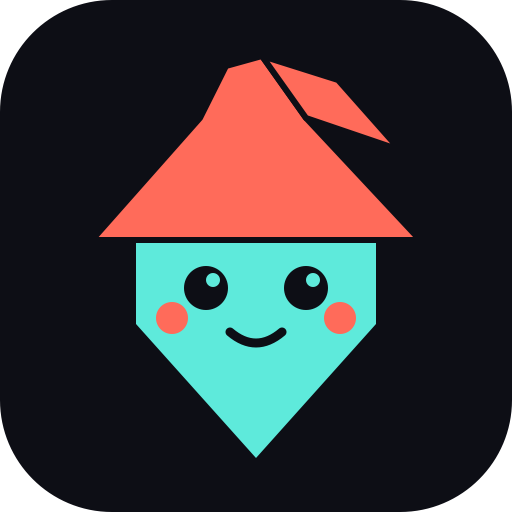
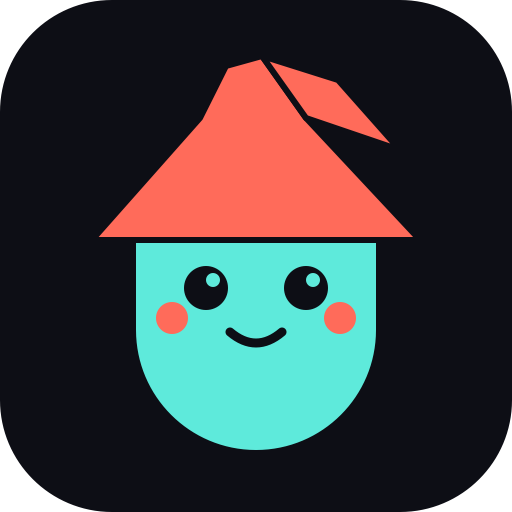
Логотип: круглое лицо вместо клиновидной бороды во всех вариантах

Changed region(s): [[0.25, 0.625, 0.75, 0.9062]]

diff --git a/cmd/kuzya/logo.go b/cmd/kuzya/logo.go
@@ -38,17 +38,14 @@ const logo = `...............ccccc..............
 .......tttttttttttttttttttt.......
 .......tttttttttttttttttttt.......
 .......tccttttkttttkttttcct.......
-........cctttttkkkktttttcc........
+.......tcctttttkkkktttttcct.......
+........tttttttttttttttttt........
+........tttttttttttttttttt........
+.........tttttttttttttttt.........
 .........tttttttttttttttt.........
 ..........tttttttttttttt..........
-...........tttttttttttt...........
 ............tttttttttt............
-.............tttttttt.............
 ..............tttttt..............
-..............tttttt..............
-...............tttt...............
-................tt................
-................tt................
 `
 
 type rgb struct{ r, g, b int }

diff --git a/cmd/kuzya/logo_test.go b/cmd/kuzya/logo_test.go
@@ -4,12 +4,13 @@ import "testing"
 
 func TestPickLogoFitsTerminal(t *testing.T) {
 	cases := []struct{ avail, wantRows int }{
-		{0, 19},  // размер неизвестен: целиком
-		{40, 19}, // большой терминал
-		{24, 19},
-		{20, 10}, // альбомный экран телефона: уменьшаем в 2 раза
-		{14, 7},
-		{11, 5},
+		{0, 18},  // размер неизвестен: целиком
+		{40, 18}, // большой терминал
+		{23, 18},
+		{20, 9}, // альбомный экран телефона: уменьшаем в 2 раза
+		{14, 9},
+		{11, 6},
+		{10, 5},
 		{9, 0}, // места нет
 	}
 	for _, c := range cases {

diff --git a/SUMMARY.md b/SUMMARY.md
@@ -69,7 +69,7 @@ Goal / Цель: offline agent on Poco F1 (SD845, 5.4 GB RAM) under skladenOS. /
 
 - `wifi_connect` and `service_restart NetworkManager` checked over USB networking (2026-10-26, direct calls through `cmd/kuzya-tool`, run detached on the phone): `service_restart NetworkManager` works, about 5 s, `wlan0` and `usb0` reconnected, the SSH session over USB hung while the interface restarted (the Mac got only a link-local address for a minute). **`wifi_connect` fails from an SSH session**: `nmcli connection up` returns "Not authorized to control networking" (polkit `org.freedesktop.NetworkManager.network-control` is `auth` for a non-local session; the default NetworkManager rule grants only `settings.modify.system` to local active sessions of groups `sudo`/`netdev`). Wi-Fi stayed connected. Whether it works from the local SXMO session (session 1, Active=yes) is not verified; a process started by a systemd user service or over SSH is not in an active session. Options: run the agent from the SXMO session and verify there, or add a polkit rule for `network-control` for group `netdev` (owner's decision: it allows all NetworkManager control for that group, not only `connection up`). / `wifi_connect` из SSH не работает (polkit); `service_restart NetworkManager` работает.
 
-- Interactive mode and SXMO entry / Интерактивный режим и пункт меню SXMO (2026-10-26): `kuzya` without arguments opens a dialog with a pixel logo (`cmd/kuzya/logo.go`, `assets/kuzya-terminal.png`) and the hints "/reset" and "/exit" (English commands first; "/сброс", "/выход" and "/quit" still work; Ctrl-D exits). `deploy/kuzya-server start|stop|status` starts `llama-server` on demand, restores the prompt cache slot (first start warms it up and saves 32 MB, about 132 s; later start 3 s) and stops it after exit; `deploy/sxmo/kuzya` is the menu entry (Scripts → "Кузя") that opens a terminal, so `nmcli` runs inside the local session. `wifi_connect` was verified from the local SXMO session through `swaymsg exec` (activated in 9 s, exit 0). The menu entry itself was not clicked yet. / Пункт меню на экране ещё не нажимали. The logo adapts to the terminal height (`pickLogo`: full 19 rows, or shrunk 2–4 times, or none) after a screenshot of the phone in landscape (about 20 rows) showed the top of the full logo scrolled off; `/help` was added and unknown `/commands` are no longer sent to the model. The terminal logo has no glasses (eyes with highlights); the SVG logo in `assets/` keeps them. Confirmation accepts `y`, `yes`, `д`, `да` (any case) as yes and anything else as no; the prompt reads `[y/N, д/н]` (checked on the phone: `н` cancelled, `Д` applied). / Подтверждение принимает y/д/да, всё остальное — отказ. Terminal command: `deploy/kuzya` is installed as `~/.local/bin/kuzya` (it starts the server, runs the agent, stops the server); `kuzya "какая сейчас громкость?"` took 10 s in total. / Команда `kuzya` в терминале: `~/.local/bin/kuzya`.
+- Interactive mode and SXMO entry / Интерактивный режим и пункт меню SXMO (2026-10-26): `kuzya` without arguments opens a dialog with a pixel logo (`cmd/kuzya/logo.go`, `assets/kuzya-terminal.png`) and the hints "/reset" and "/exit" (English commands first; "/сброс", "/выход" and "/quit" still work; Ctrl-D exits). `deploy/kuzya-server start|stop|status` starts `llama-server` on demand, restores the prompt cache slot (first start warms it up and saves 32 MB, about 132 s; later start 3 s) and stops it after exit; `deploy/sxmo/kuzya` is the menu entry (Scripts → "Кузя") that opens a terminal, so `nmcli` runs inside the local session. `wifi_connect` was verified from the local SXMO session through `swaymsg exec` (activated in 9 s, exit 0). The menu entry itself was not clicked yet. / Пункт меню на экране ещё не нажимали. The logo adapts to the terminal height (`pickLogo`: full 19 rows, or shrunk 2–4 times, or none) after a screenshot of the phone in landscape (about 20 rows) showed the top of the full logo scrolled off; `/help` was added and unknown `/commands` are no longer sent to the model. All logo variants now have a round face instead of the wedge beard (SVG light and dark, PNG, terminal logo; 18 text rows instead of 19). The terminal logo has no glasses (eyes with highlights); the SVG logo in `assets/` keeps them. Confirmation accepts `y`, `yes`, `д`, `да` (any case) as yes and anything else as no; the prompt reads `[y/N, д/н]` (checked on the phone: `н` cancelled, `Д` applied). / Подтверждение принимает y/д/да, всё остальное — отказ. Terminal command: `deploy/kuzya` is installed as `~/.local/bin/kuzya` (it starts the server, runs the agent, stops the server); `kuzya "какая сейчас громкость?"` took 10 s in total. / Команда `kuzya` в терминале: `~/.local/bin/kuzya`.
 
 - Battery use / Расход батареи (2026-10-26, `qcom-battery/current_now`, Gemma 4 E2B, screen 50%, Wi-Fi on, 3.75 V): nothing running about 190 mA; `llama-server` idle (20–45 s after start) about 205–220 mA, i.e. +20–30 mA, no CPU use; server start and prompt-cache restore a few seconds at about 600 mA; **a query to the model about 2.2 A** (about 8 W) for 5–10 s, roughly 3–4 mAh (about 0.1% of a 4000 mAh battery) per query, a cold first request (130 s) about 80 mAh (2%). The 97% → 8% drop during the day came from my benchmark runs (minutes at full load), not from normal use. The launcher stops the server only if it started it, also on Ctrl-C (`deploy/kuzya`); `kuzya-server status` exits non-zero when stopped. / Простой сервера почти не тратит; запрос около 0,1%; разряд за день — из-за моих прогонов.
 

diff --git a/assets/README.md b/assets/README.md
@@ -12,3 +12,5 @@ Two colours on a dark tile: turquoise `#5EEADB` (light theme `#14968F`) and the 
 
 Русский: основной — `mid-glasses` (с очками), альтернативный — `mid` (без очков); `simple` и `minimal` отклонены, подробный `kuzya` оставлен как ранняя версия.
 | `kuzya-terminal.png` | preview of the terminal logo | 34×38 pixel version of `mid-glasses` without the glasses (eyes with highlights) for the interactive mode (`cmd/kuzya/logo.go`, half-block characters, 24-bit colour or 256 colours); not shown when output is not a terminal, with `NO_COLOR` or `KUZYA_NOLOGO` |
+
+All variants (dark and light) use a round face: the pentagon beard was replaced by the lower half of a circle under the hat brim (the fold lines of the beard in `kuzya*.svg` were removed); PNGs were regenerated.
